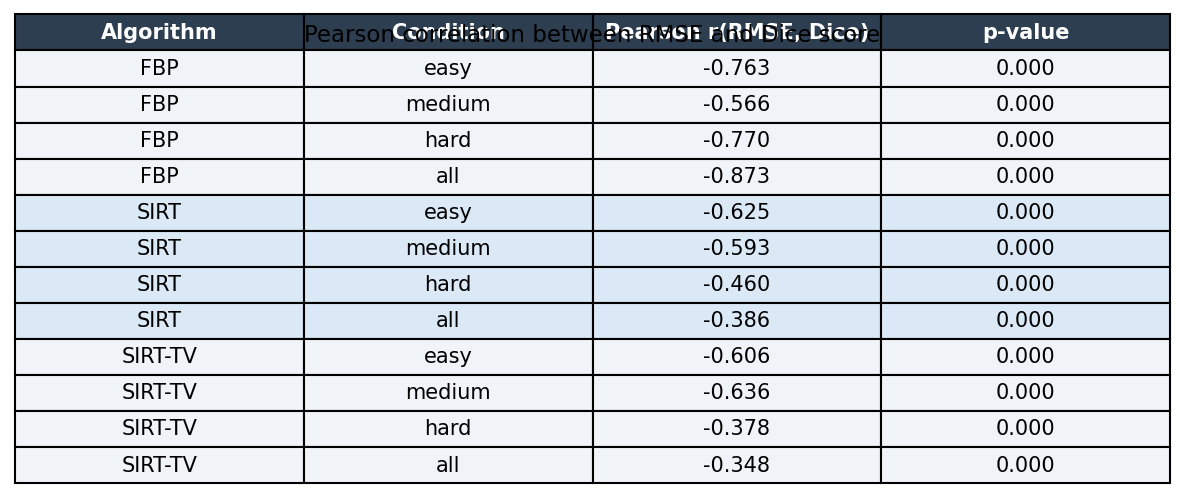
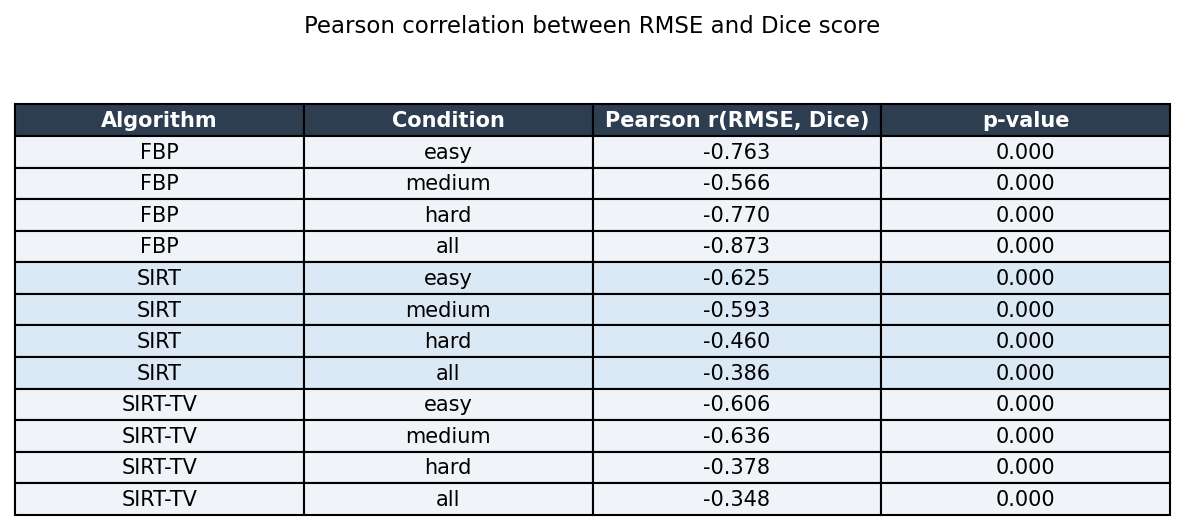
updated correlation_table.png

Changed region(s): [[0.0, 0.0, 0.9992, 0.994]]

diff --git a/analyse_results.py b/analyse_results.py
@@ -114,9 +114,9 @@ for i, row in corr_df.iterrows():
     for j in range(len(corr_df.columns)):
         table[i + 1, j].set_facecolor(color)
 
-ax.set_title(
+fig.suptitle(
     "Pearson correlation between RMSE and Dice score",
-    fontsize=11, pad=12,
+    fontsize=11, y=1.02,
 )
 fig.tight_layout()
 path = os.path.join(OUTPUT_DIR, "correlation_table.png")
